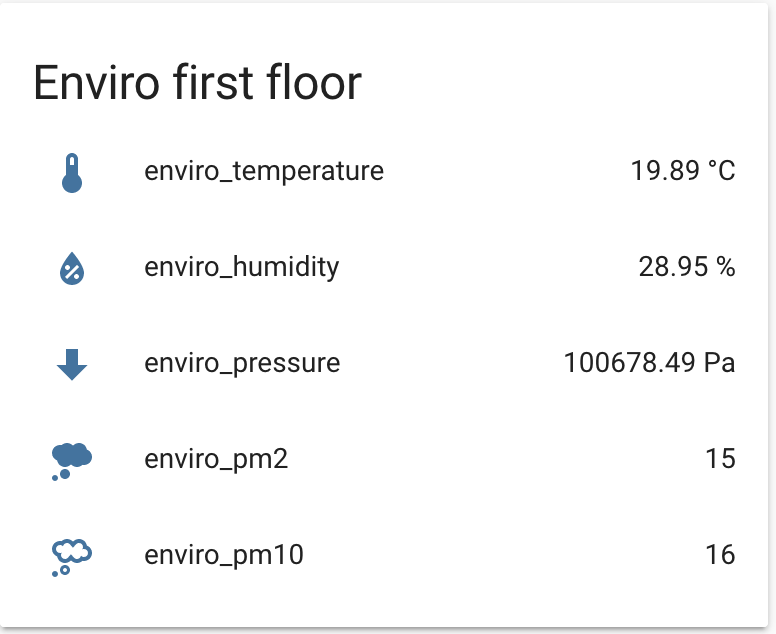
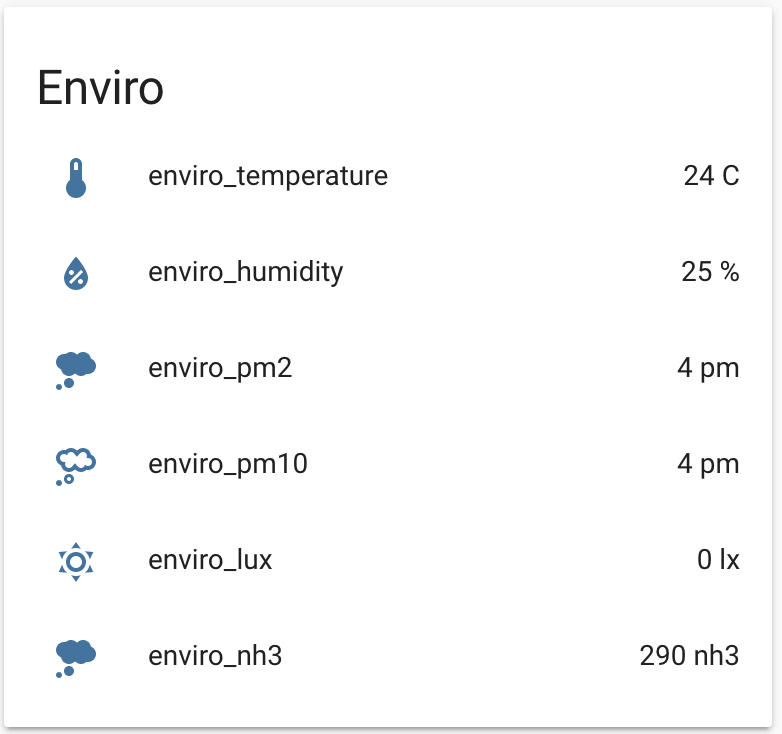
Update readme

diff --git a/README.md b/README.md
@@ -28,48 +28,51 @@ nohup python3 /home/pi/yourdir/mqtt-all.py --broker 192.168.1.164 --topic enviro
 TODO add service file.
 
 ## Home Assistant integration
-I personally am using [home-assistant](https://www.home-assistant.io/) to receive and log the enviro mqtt data. The benefits are: logging to `.db` sqlite file & graphing. Simply configure an mqtt-sensor on the `enviro` topic (or whatever you selected) and break out the individual readings using a template. Example below:
+I personally am using [home-assistant](https://www.home-assistant.io/) to receive and log the enviro mqtt data. The benefits are: logging to `.db` sqlite file & graphing. Simply configure an mqtt-sensor on the `enviro` topic (or whatever you selected) and break out the individual readings using a template. Example below, in `sensor.yaml`:
 
 ```yaml
-sensor:
-  - platform: mqtt
-    name: "enviro"
-    state_topic: "enviro"
-
-  - platform: mqtt
-    state_topic: "enviro"
-    value_template: "{{ value_json.temperature }}"
-    name: "enviro_temperature"
-    unit_of_measurement: '°C'
-    icon: "mdi:thermometer"
-
-  - platform: mqtt
-    state_topic: "enviro"
-    value_template: "{{ value_json.humidity }}"
-    name: "enviro_humidity"
-    unit_of_measurement: '%'
-    icon: "mdi:water-percent"
-
-  - platform: mqtt
-    state_topic: "enviro"
-    value_template: "{{ value_json.pressure }}"
-    name: "enviro_pressure"
-    unit_of_measurement: 'Pa'
-    icon: "mdi:arrow-down-bold"
-
-  - platform: mqtt
-    state_topic: "enviro"
-    value_template: "{{ value_json.pm25 }}"
-    name: "enviro_pm2"
-    unit_of_measurement: 'pm'
-    icon: "mdi:thought-bubble"
-
-  - platform: mqtt
-    state_topic: "enviro"
-    value_template: "{{ value_json.pm10 }}"
-    name: "enviro_pm10"
-    unit_of_measurement: 'pm'
-    icon: "mdi:thought-bubble-outline"
+- platform: mqtt
+  state_topic: "enviroplus"
+  value_template: "{{ value_json.pm10 }}"
+  name: "enviro_pm10"
+  unit_of_measurement: 'pm'
+  icon: "mdi:thought-bubble-outline"
+- platform: mqtt
+  state_topic: "enviroplus"
+  value_template: "{{ value_json.pm25 }}"
+  name: "enviro_pm2"
+  unit_of_measurement: 'pm'
+  icon: "mdi:thought-bubble"
+- platform: mqtt
+  state_topic: "enviroplus"
+  value_template: "{{ value_json.humidity }}"
+  name: "enviro_humidity"
+  unit_of_measurement: '%'
+  icon: "mdi:water-percent"
+- platform: mqtt
+  state_topic: "enviroplus"
+  value_template: "{{ value_json.pressure }}"
+  name: "enviro_pressure"
+  unit_of_measurement: 'Pa'
+  icon: "mdi:arrow-down-bold"
+- platform: mqtt
+  state_topic: "enviroplus"
+  value_template: "{{ value_json.temperature }}"
+  name: "enviro_temperature"
+  unit_of_measurement: 'C'
+  icon: "mdi:thermometer"
+- platform: mqtt
+  state_topic: "enviroplus"
+  value_template: "{{ value_json.lux }}"
+  name: "enviro_lux"
+  unit_of_measurement: 'lx'
+  icon: "mdi:weather-sunny"
+- platform: mqtt
+  state_topic: "enviroplus"
+  value_template: "{{ value_json.nh3 }}"
+  name: "enviro_nh3"
+  unit_of_measurement: 'nh3'
+  icon: "mdi:thought-bubble"
 ```
 
 Using the created entities you can add an entity card like the following:
